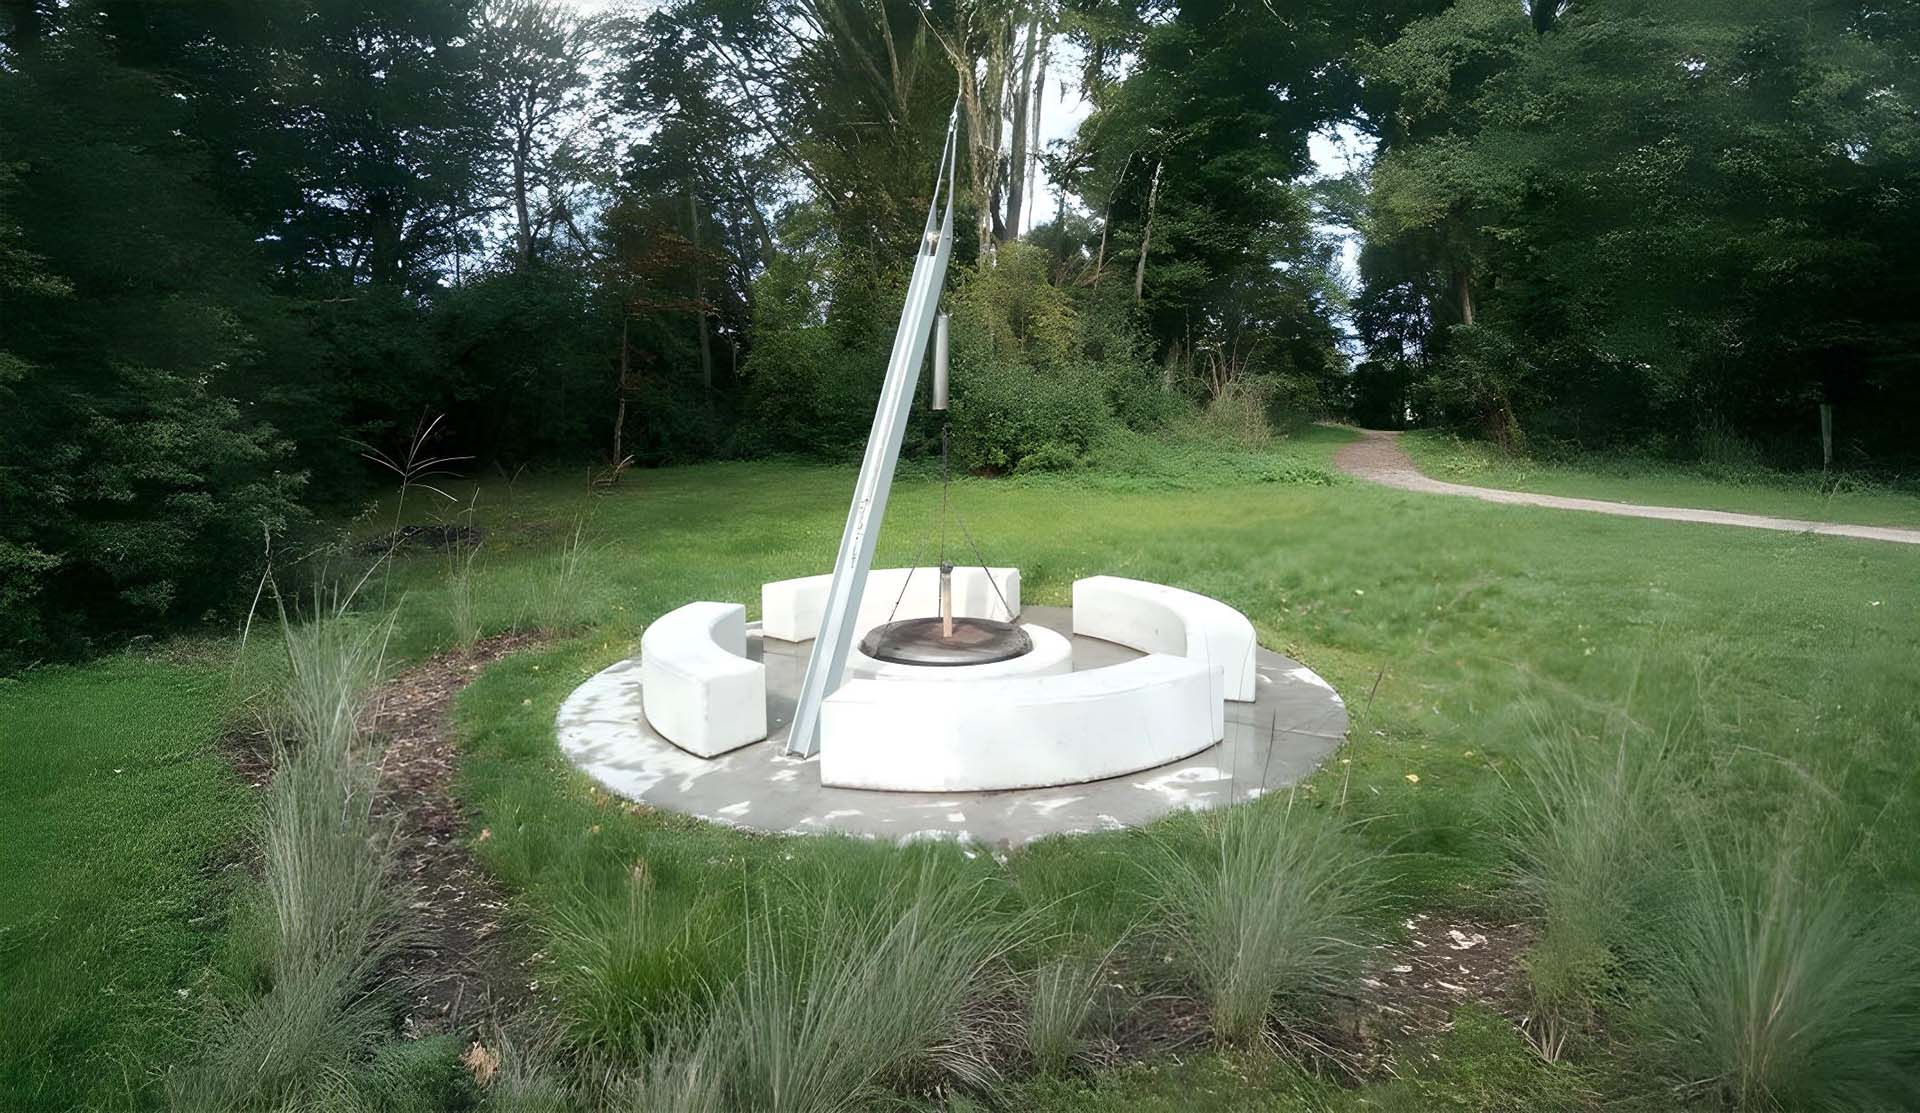
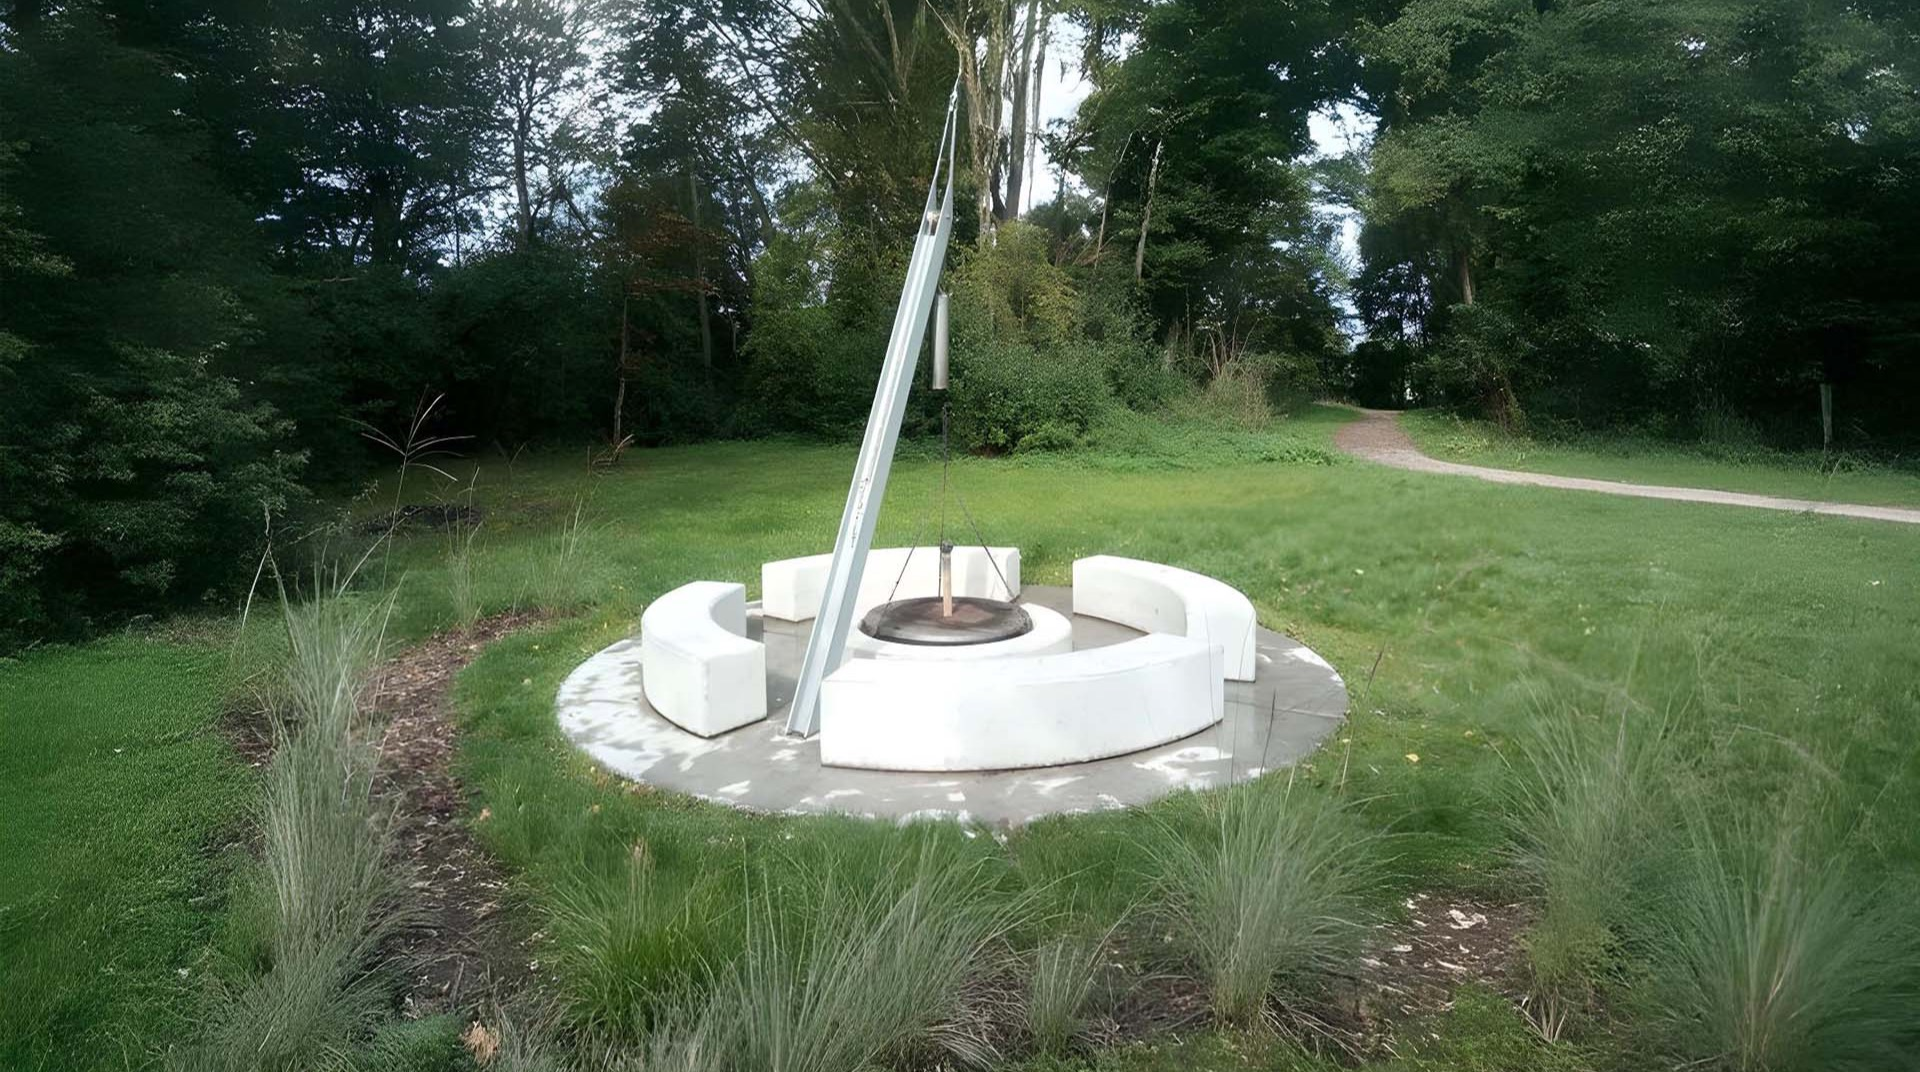
Menü: Produkte und Planung öffnen getrennt, Handy-Menü von oben erreichbar, Planer-Block vor den Abschluss der Planungsseite
- Header: ein gemeinsamer Zustand für beide Untermenüs ersetzt durch den Namen des offenen Menüs; Hover und Klick heben sich nicht mehr auf; Escape schließt
- Handy-Menü: justify-start statt justify-center, sonst lagen Home und Skate-Anlagen außerhalb des Scrollbereichs
- Footer: Planung wieder in der Navigation (fiel durch subLinks heraus)
- Planungsseite: Skatepark-Planer-Block nach Bau und Umsetzung, doppelter Knopf im Abschluss entfernt
- Header-Fotos Grillstelle und Überdachung auf 1,79:1 wie die übrigen Produktseiten

diff --git a/components/Header.tsx b/components/Header.tsx
@@ -4,10 +4,10 @@ import { NAV_LINKS } from '../constants';
 
 const Header: React.FC = () => {
   const [isMenuOpen, setIsMenuOpen] = useState(false);
-  const [isDropdownOpen, setIsDropdownOpen] = useState(false);
+  // Name des offenen Untermenüs (Produkte, Planung), sonst null
+  const [openDropdown, setOpenDropdown] = useState<string | null>(null);
   const [scrolled, setScrolled] = useState(false);
-  const dropdownRef = useRef<HTMLDivElement>(null);
-  const dropdownButtonRef = useRef<HTMLButtonElement>(null);
+  const navRef = useRef<HTMLElement>(null);
   const location = useLocation();
 
   // Handle scroll effect for floating navbar
@@ -22,26 +22,23 @@ const Header: React.FC = () => {
   // Close mobile menu on route change
   useEffect(() => {
     setIsMenuOpen(false);
-    setIsDropdownOpen(false);
+    setOpenDropdown(null);
   }, [location]);
 
-  const toggleDropdown = () => {
-    setIsDropdownOpen(prev => !prev);
-  };
-
-  const closeDropdown = () => {
-    setIsDropdownOpen(false);
-  };
-  
-  // Click outside handler
+  // Klick außerhalb der Navigation oder Escape schließt das Untermenü
   useEffect(() => {
     const handleClickOutside = (event: MouseEvent) => {
-      if (dropdownRef.current && !dropdownRef.current.contains(event.target as Node) && !dropdownButtonRef.current?.contains(event.target as Node)) {
-        closeDropdown();
-      }
+      if (!navRef.current?.contains(event.target as Node)) setOpenDropdown(null);
+    };
+    const handleKey = (event: KeyboardEvent) => {
+      if (event.key === 'Escape') setOpenDropdown(null);
     };
     document.addEventListener('mousedown', handleClickOutside);
-    return () => document.removeEventListener('mousedown', handleClickOutside);
+    document.addEventListener('keydown', handleKey);
+    return () => {
+      document.removeEventListener('mousedown', handleClickOutside);
+      document.removeEventListener('keydown', handleKey);
+    };
   }, []);
 
   // Lock body scroll when mobile menu is open
@@ -80,31 +77,37 @@ const Header: React.FC = () => {
             </Link>
 
             {/* Desktop Nav - Semantic HTML Upgrade */}
-            <nav className="hidden md:block" aria-label="Hauptnavigation">
+            <nav ref={navRef} className="hidden md:block" aria-label="Hauptnavigation">
               <ul className="flex items-center gap-8">
               {NAV_LINKS.map((link) =>
-                link.subLinks ? (
-                  <li key={link.name} className="relative group">
-                    <button 
-                      ref={dropdownButtonRef}
-                      onClick={toggleDropdown}
-                      onMouseEnter={() => setIsDropdownOpen(true)}
+                link.subLinks ? (() => {
+                  const isOpen = openDropdown === link.name;
+                  return (
+                  <li
+                    key={link.name}
+                    className="relative group"
+                    onMouseEnter={() => setOpenDropdown(link.name)}
+                    onMouseLeave={() => setOpenDropdown(null)}
+                  >
+                    <button
+                      type="button"
+                      // Maus hat beim Überfahren schon geöffnet, Klick darf nicht wieder schließen.
+                      // Nur Tastatur (detail === 0) schaltet um.
+                      onClick={(e) => setOpenDropdown(isOpen && e.detail === 0 ? null : link.name)}
                       className="text-brand-dark/70 hover:text-brand-dark py-2 text-sm font-bold uppercase tracking-widest transition-colors duration-200 flex items-center gap-1"
-                      aria-expanded={isDropdownOpen}
+                      aria-expanded={isOpen}
                     >
                       {link.name}
-                      <span className={`bg-brand-orange h-1 w-1 rounded-full transition-opacity ${isDropdownOpen ? 'opacity-100' : 'opacity-0 group-hover:opacity-100'}`}></span>
+                      <span className={`bg-brand-orange h-1 w-1 rounded-full transition-opacity ${isOpen ? 'opacity-100' : 'opacity-0 group-hover:opacity-100'}`}></span>
                     </button>
-                    
-                    {/* Modern Dropdown */}
+
+                    {/* Dropdown: pt-4 statt mt-4, damit die Maus auf dem Weg zum Menü im li bleibt */}
                     <div
-                      ref={dropdownRef}
-                      onMouseLeave={() => setIsDropdownOpen(false)}
-                      className={`absolute top-full left-1/2 -translate-x-1/2 mt-4 w-64 p-2 bg-white border border-brand-dark/10 rounded-xl shadow-2xl backdrop-blur-md transition-all duration-300 origin-top transform ${
-                        isDropdownOpen ? 'opacity-100 scale-100 translate-y-0' : 'opacity-0 scale-95 -translate-y-2 pointer-events-none'
+                      className={`absolute top-full left-1/2 -translate-x-1/2 pt-4 w-64 transition-[opacity,transform] duration-300 origin-top transform ${
+                        isOpen ? 'visible opacity-100 scale-100 translate-y-0' : 'invisible opacity-0 scale-95 -translate-y-2 pointer-events-none'
                       }`}
                     >
-                      <ul className="flex flex-col gap-1">
+                      <ul className="flex flex-col gap-1 p-2 bg-white border border-brand-dark/10 rounded-xl shadow-2xl">
                         {link.subLinks.map(subLink => (
                            <li key={subLink.name}>
                              <Link
@@ -118,7 +121,8 @@ const Header: React.FC = () => {
                       </ul>
                     </div>
                   </li>
-                ) : (
+                  );
+                })() : (
                   <li key={link.name}>
                     <Link
                       to={link.href}
@@ -164,7 +168,7 @@ const Header: React.FC = () => {
           isMenuOpen ? 'translate-y-0' : '-translate-y-full'
         }`}
       >
-        <div className="container mx-auto h-full flex flex-col justify-center px-6 pb-20 pt-32 overflow-y-auto">
+        <div className="container mx-auto h-full flex flex-col justify-start px-6 pb-20 pt-24 overflow-y-auto">
           <nav className="flex flex-col gap-6" aria-label="Mobile Navigation">
             {NAV_LINKS.map((link, idx) => (
               <div key={link.name} className="overflow-hidden">

diff --git a/pages/PlanningPage.tsx b/pages/PlanningPage.tsx
@@ -230,32 +230,6 @@ const PlanningPage: React.FC = () => {
             </div>
         </div>
 
-        {/* 3b. SELBST ENTWERFEN: Skatepark-Planer (Konfigurator) */}
-        <div className="max-w-7xl mx-auto px-4 sm:px-6 lg:px-8 mb-32 relative z-20">
-            <div className="grid lg:grid-cols-2 gap-10 items-center bg-brand-dark rounded-2xl p-8 md:p-12 text-white">
-                <div>
-                    <span className="inline-block py-1 px-3 border border-brand-orange/50 text-brand-orange font-mono text-xs mb-6 uppercase tracking-widest rounded-md">Selbst entwerfen</span>
-                    <h2 className="text-4xl md:text-5xl font-extrabold font-heading uppercase tracking-tighter leading-none mb-6">
-                        Der <span className="text-brand-orange">Skatepark-Planer.</span>
-                    </h2>
-                    <p className="text-lg text-white/80 leading-relaxed mb-4">
-                        Stellen Sie Ihren Park im Browser aus unseren Elementen zusammen, in 3D und als Draufsicht. Der Planer zeigt Maße und Stückliste. Ihren Entwurf senden Sie uns, und wir arbeiten ihn zur fertigen Planung aus.
-                    </p>
-                    <p className="text-sm text-white/60 leading-relaxed">
-                        Vorlagen ansehen geht ohne Code. Zum Bearbeiten brauchen Sie Ihren persönlichen Code, den wir Ihnen gern zusenden.
-                    </p>
-                </div>
-                <div className="flex flex-col gap-4">
-                    <Link to="/konfigurator" className="inline-flex justify-center items-center gap-2 bg-brand-orange text-white font-extrabold uppercase tracking-widest py-4 px-8 rounded-lg hover:bg-white hover:text-brand-dark transition-colors">
-                        <span className="material-symbols-outlined">view_in_ar</span> Planer öffnen
-                    </Link>
-                    <a href={KONFIGURATOR_ANFRAGE} className="inline-flex justify-center items-center gap-2 border border-white/30 text-white font-extrabold uppercase tracking-widest py-4 px-8 rounded-lg hover:border-brand-orange hover:text-brand-orange transition-colors">
-                        Code anfragen
-                    </a>
-                </div>
-            </div>
-        </div>
-
         {/* 4. PROCESS STEPS */}
         <div className="bg-brand-surface border-y border-brand-dark/10 py-24 mb-32">
             <div className="max-w-7xl mx-auto px-4 sm:px-6 lg:px-8">
@@ -366,6 +340,32 @@ const PlanningPage: React.FC = () => {
             </div>
         </div>
 
+        {/* 5b. SELBST ENTWERFEN: Skatepark-Planer (Konfigurator) */}
+        <div className="max-w-7xl mx-auto px-4 sm:px-6 lg:px-8 mb-32 relative z-20">
+            <div className="grid lg:grid-cols-2 gap-10 items-center bg-brand-dark rounded-2xl p-8 md:p-12 text-white">
+                <div>
+                    <span className="inline-block py-1 px-3 border border-brand-orange/50 text-brand-orange font-mono text-xs mb-6 uppercase tracking-widest rounded-md">Selbst entwerfen</span>
+                    <h2 className="text-4xl md:text-5xl font-extrabold font-heading uppercase tracking-tighter leading-none mb-6">
+                        Der <span className="text-brand-orange">Skatepark-Planer.</span>
+                    </h2>
+                    <p className="text-lg text-white/80 leading-relaxed mb-4">
+                        Stellen Sie Ihren Park im Browser aus unseren Elementen zusammen, in 3D und als Draufsicht. Der Planer zeigt Maße und Stückliste. Ihren Entwurf senden Sie uns, und wir arbeiten ihn zur fertigen Planung aus.
+                    </p>
+                    <p className="text-sm text-white/60 leading-relaxed">
+                        Vorlagen ansehen geht ohne Code. Zum Bearbeiten brauchen Sie Ihren persönlichen Code, den wir Ihnen gern zusenden.
+                    </p>
+                </div>
+                <div className="flex flex-col gap-4">
+                    <Link to="/konfigurator" className="inline-flex justify-center items-center gap-2 bg-brand-orange text-white font-extrabold uppercase tracking-widest py-4 px-8 rounded-lg hover:bg-white hover:text-brand-dark transition-colors">
+                        <span className="material-symbols-outlined">view_in_ar</span> Planer öffnen
+                    </Link>
+                    <a href={KONFIGURATOR_ANFRAGE} className="inline-flex justify-center items-center gap-2 border border-white/30 text-white font-extrabold uppercase tracking-widest py-4 px-8 rounded-lg hover:border-brand-orange hover:text-brand-orange transition-colors">
+                        Code anfragen
+                    </a>
+                </div>
+            </div>
+        </div>
+
         {/* 6. CTA */}
         <div className="max-w-4xl mx-auto px-4 text-center mb-24">
             <h2 className="text-3xl md:text-5xl font-extrabold font-heading text-brand-dark uppercase mb-8">
@@ -377,9 +377,6 @@ const PlanningPage: React.FC = () => {
             <div className="flex flex-wrap justify-center gap-4">
                 <Link to="/kontakt?projectType=Beratung" className="px-8 py-4 bg-brand-orange text-white font-extrabold uppercase tracking-widest rounded hover:bg-brand-dark transition-colors shadow-lg hover:shadow-brand-orange/50">
                     Projekt anfragen
-                </Link>
-                <Link to="/konfigurator" className="px-8 py-4 border border-brand-dark/15 text-brand-dark font-extrabold uppercase tracking-widest rounded hover:border-brand-orange hover:text-brand-orange transition-colors">
-                    Selbst entwerfen
                 </Link>
             </div>
         </div>

diff --git a/components/Footer.tsx b/components/Footer.tsx
@@ -50,7 +50,7 @@ const Footer: React.FC = () => {
             <div>
                 <h3 className="text-xs font-bold uppercase tracking-widest text-brand-orange mb-6">Menü</h3>
                 <ul className="space-y-4">
-                    {NAV_LINKS.filter(l => !l.subLinks).map(link => (
+                    {NAV_LINKS.filter(l => l.name !== 'Produkte').map(link => (
                         <li key={link.name}>
                             <Link to={link.href} className="text-sm font-bold text-gray-400 hover:text-white transition-colors uppercase tracking-wider block hover:translate-x-2 transition-transform duration-300">
                                 {link.name}
